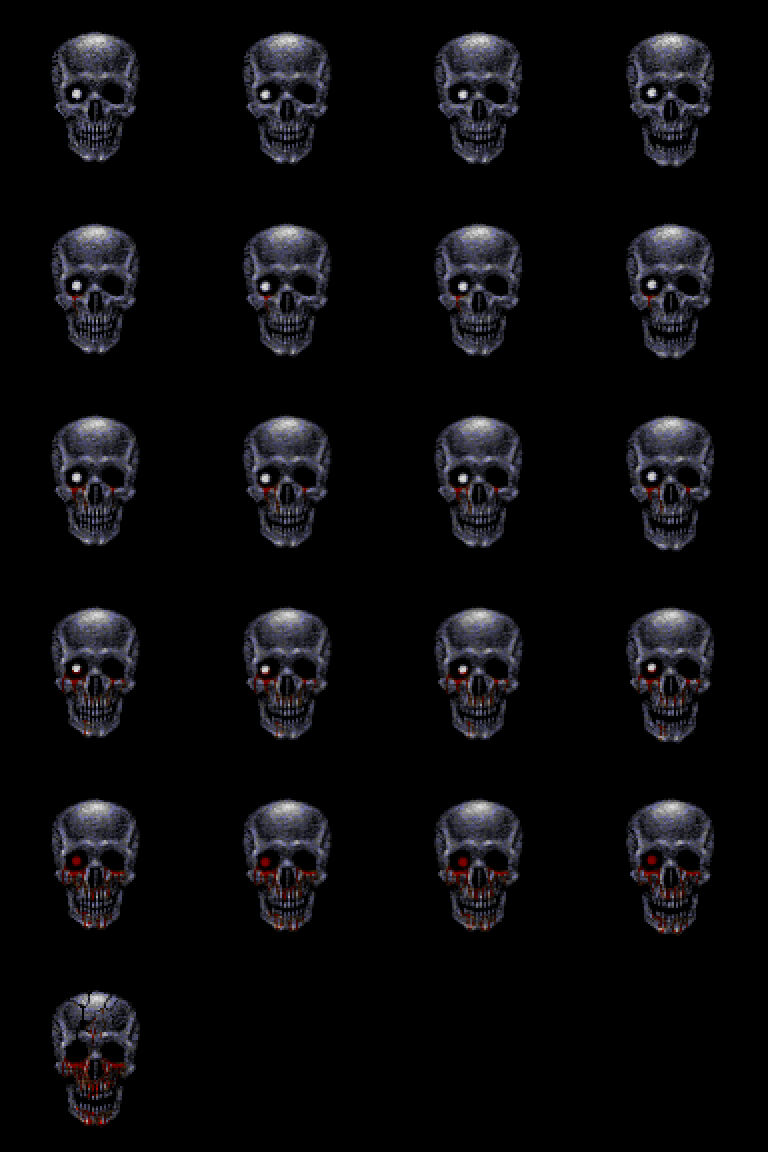
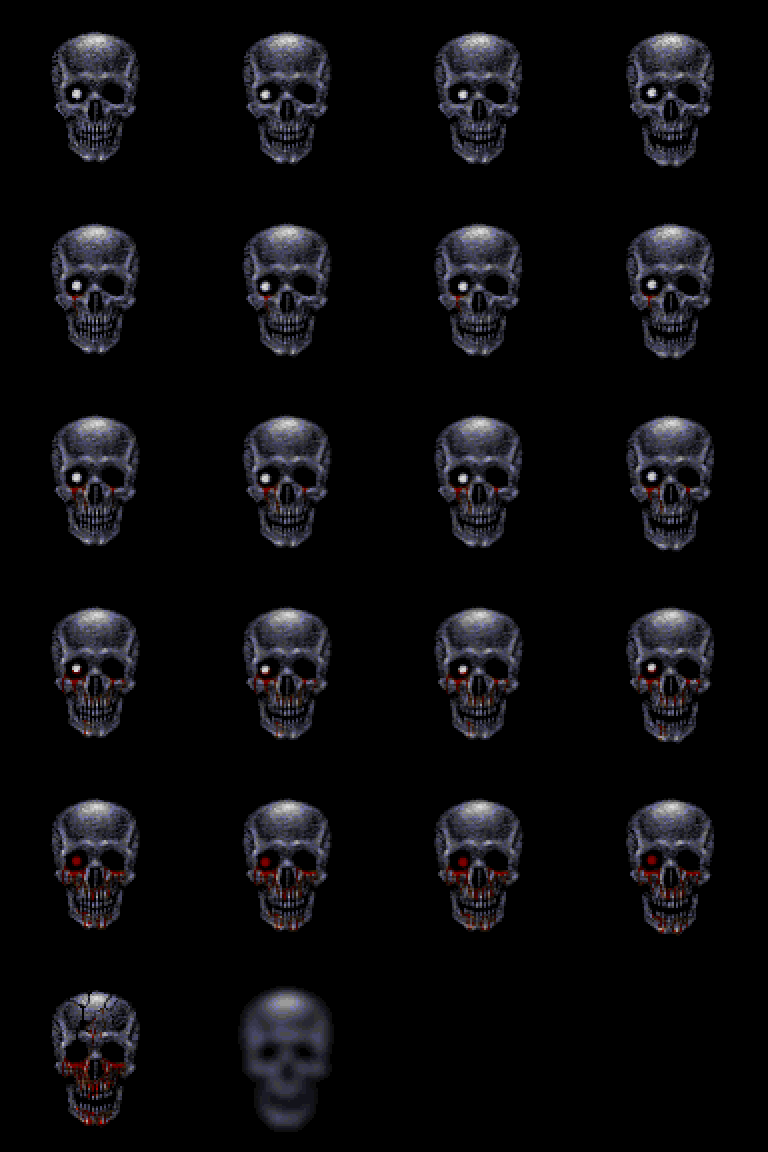
Add drown state animation to Skull

Changed region(s): [[0.3125, 0.8438, 0.4375, 1.0]]

diff --git a/scripts/Skull.cs b/scripts/Skull.cs
@@ -68,6 +68,19 @@ namespace DungeonCrawler
 			}
 		}
 
+		/// <summary>
+		/// Plays the 'drown' animation if it exists.
+		/// Used to visually represent death by drowning.
+		/// </summary>
+		public void PlayDrown()
+		{
+			if (SpriteFrames.HasAnimation("drown"))
+			{
+				Animation = "drown";
+				Play();
+			}
+		}
+
 		#endregion
 
 		#region Private Methods

diff --git a/scripts/Player.cs b/scripts/Player.cs
@@ -153,6 +153,7 @@ namespace DungeonCrawler
 			float fadeTime = 0.5f;
 			if (drown)
 			{
+				Global.Skull.PlayDrown();
 				fadeTime = 0.25f;
 				Global.MessageBox.Message(_narrationDrown, Global.Red);
 			}
